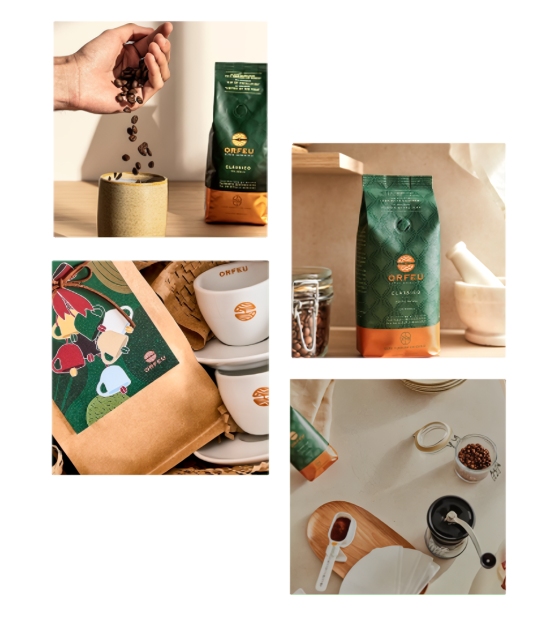
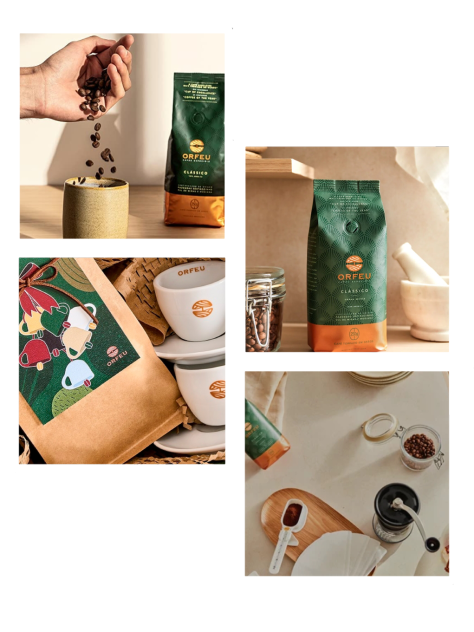
mudanças

diff --git a/src/pages/Usuario/PaginaProdutos/index.jsx b/src/pages/Usuario/PaginaProdutos/index.jsx
@@ -8,7 +8,7 @@ import { toast } from 'react-toastify';
 
 
 export default function Index(){
-    const categorias = [{categoria: 'cafeemgraos', secoes: [{marca: '3 Corações: Edição Gourmet', marcaBusca: '3 coracoes', imagemSuporte: '/assets/images/categorias/apresentacao/graos/cafe3coracoes.svg'}, {marca: 'Orfeu: 100% arábica', marcaBusca: 'orfeu', imagemSuporte: '/assets/images/categorias/apresentacao/graos/cafeOrfeu.png'}, {marca: 'Santa Mônica', marcaBusca: 'santa monica' , imagemSuporte: '/assets/images/categorias/apresentacao/graos/cafeSantaMonica.png'}]}, {categoria: 'filtros', secoes: [{marca: 'Hario V60', marcaBusca: 'hario' , imagemSuporte: ''}, {marca: 'Chemex: Bonded Filters', marcaBusca: 'chemex' , imagemSuporte: ''}, {marca: '3 corações', marcaBusca: '3 coracoes' ,  imagemSuporte: ''}]}, {categoria: 'moedores', secoes: [{marca: 'Hario', marcaBusca:'hario' , imagemSuporte: ''}, {marca: 'Tramontina ', marcaBusca: 'tramontina', imagemSuporte: ''}, {marca: 'Hamilton Beach', marcaBusca: 'hamilton', imagemSuporte: ''}]}, {categoria: 'cafeteiras', secoes: [{marca: 'Nespresso', marcaBusca: 'nespresso', imagemSuporte: ''}, {marca: 'Oster', marcaBusca: 'oster', imagemSuporte: ''}, {marca: 'DeLonghi', marcaBusca: 'delonghi', imagemSuporte: ''}]}, {categoria: 'capsulas', secoes: [{marca: 'Orfeu Cafés Especiais', marcaBusca: 'orfeu', imagemSuporte: ''}, {marca: 'Baggio Café', marcaBusca: 'baggio', imagemSuporte: ''}, {marca: `L'or Expresso`, marcaBusca: `l'or`, imagemSuporte: ''}]}, {categoria: 'cafeempo', secoes: [{marca: 'Baggio Café', marcaBusca: 'baggio', imagemSuporte: ''}, {marca: 'Starbucks', marcaBusca: 'starbucks', imagemSuporte: ''}, {marca: 'Melitta', marcaBusca: 'melitta', imagemSuporte: ''}]}, {categoria: 'acessorios', secoes: [{marca: 'Garrafas térmicas Stanley', marcaBusca: 'stanley', imagemSuporte: ''}, {marca: 'Bules Electrolux', marcaBusca: 'electrolux', imagemSuporte: ''}, {marca: 'Coadores Hario', marcaBusca: 'hario', imagemSuporte: ''}]}]
+    const categorias = [{categoria: 'cafeemgraos', secoes: [{marca: '3 Corações: Edição Gourmet', marcaBusca: '3 coracoes', imagemSuporte: '/assets/images/categorias/apresentacao/graos/cafe3coracoes.svg'}, {marca: 'Orfeu: 100% arábica', marcaBusca: 'orfeu', imagemSuporte: '/assets/images/categorias/apresentacao/graos/cafeOrfeu.png'}, {marca: 'Santa Mônica', marcaBusca: 'santa monica' , imagemSuporte: '/assets/images/categorias/apresentacao/graos/cafeSantaMonica.png'}]}, {categoria: 'filtros', secoes: [{marca: 'Hario V60', marcaBusca: 'hario' , imagemSuporte: '/assets/images/categorias/apresentacao/filtros/hario.png'}, {marca: 'Chemex: Bonded Filters', marcaBusca: 'chemex' , imagemSuporte: '/assets/images/categorias/apresentacao/filtros/chemex.png'}, {marca: '3 corações', marcaBusca: '3 coracoes' ,  imagemSuporte: '/assets/images/categorias/apresentacao/filtros/3coracoes.png'}]}, {categoria: 'moedores', secoes: [{marca: 'Hario', marcaBusca:'hario' , imagemSuporte: ''}, {marca: 'Tramontina ', marcaBusca: 'tramontina', imagemSuporte: ''}, {marca: 'Hamilton Beach', marcaBusca: 'hamilton', imagemSuporte: ''}]}, {categoria: 'cafeteiras', secoes: [{marca: 'Nespresso', marcaBusca: 'nespresso', imagemSuporte: ''}, {marca: 'Oster', marcaBusca: 'oster', imagemSuporte: ''}, {marca: 'DeLonghi', marcaBusca: 'delonghi', imagemSuporte: ''}]}, {categoria: 'capsulas', secoes: [{marca: 'Orfeu Cafés Especiais', marcaBusca: 'orfeu', imagemSuporte: ''}, {marca: 'Baggio Café', marcaBusca: 'baggio', imagemSuporte: ''}, {marca: `L'or Expresso`, marcaBusca: `l'or`, imagemSuporte: ''}]}, {categoria: 'cafeempo', secoes: [{marca: 'Baggio Café', marcaBusca: 'baggio', imagemSuporte: ''}, {marca: 'Starbucks', marcaBusca: 'starbucks', imagemSuporte: ''}, {marca: 'Melitta', marcaBusca: 'melitta', imagemSuporte: ''}]}, {categoria: 'acessorios', secoes: [{marca: 'Garrafas térmicas Stanley', marcaBusca: 'stanley', imagemSuporte: ''}, {marca: 'Bules Electrolux', marcaBusca: 'electrolux', imagemSuporte: ''}, {marca: 'Coadores Hario', marcaBusca: 'hario', imagemSuporte: ''}]}]
     const [categoriaAtual, setCategoriaAtual] = useState([{marca: '', imagemSuporte: ''}, {marca: '', imagemSuporte: ''}, {marca: '', imagemSuporte: ''}])
     const { categoria } = useParams()
     const [produtos, setProdutos] = useState([[], [], []])

diff --git a/src/pages/Admin/Estatísticas/index.jsx b/src/pages/Admin/Estatísticas/index.jsx
@@ -1,7 +1,59 @@
+import { useEffect, useState } from 'react';
 import CabecalhoAdm from '../../../components/Admin/AdmCabecalho';
 import './index.scss';
+import { toast } from 'react-toastify';
+import { buscarEstatisticas } from '../../../api/estatisticaApi';
 
 export default function Index() {
+    const [estatisticas, setEstatisticas] = useState()
+    
+
+
+    async function buscarEstatisticasClick(){
+        try{
+            const campos = ['assinaturas', 'pedidosConcluidos', 'pedidosCancelados', 'clientes']
+            let dateFim = new Date()
+            dateFim = dateFim.toISOString()
+            dateFim = dateFim.substr(0, 10)
+
+            let dateInicio = new Date()
+            dateInicio.setDate(dateInicio.getDate() - 30)
+            dateInicio = dateInicio.toISOString()
+            dateInicio = dateInicio.substr(0, 10)
+
+            let dateComparacaoFim = `${dateInicio}`
+            dateComparacaoFim = dateComparacaoFim.substring(0, 10)
+            
+            let dateComparacaoInicio = new Date()
+            dateComparacaoInicio.setDate(dateComparacaoInicio.getDate() - 60)
+            dateComparacaoInicio = dateComparacaoInicio.toISOString()
+            dateComparacaoInicio = dateComparacaoInicio.substr(0, 10)            
+
+            for(let cont = 0; cont < 1; cont++){
+                let qtdRecente = await buscarEstatisticas(dateInicio, dateFim, campos[cont])
+                let qtdAntiga = await buscarEstatisticas(dateComparacaoInicio, dateComparacaoFim, campos[cont])
+                let taxa = (qtdRecente - qtdAntiga) / (qtdAntiga / 100)  
+                console.log(qtdRecente);
+                console.log(qtdAntiga);
+                console.log(taxa);
+            }
+        }
+        catch(err){
+            if(err.response)
+                toast.error(err.response.data.erro)
+            else
+                toast.error(err.message)
+        }
+    }
+    
+    useEffect(() => {
+        buscarEstatisticasClick()
+
+        // eslint-disable-next-line
+    }, [])
+    
+    
+    
     return(
         <div id='page-adm-estatisticas'>
             <CabecalhoAdm />

diff --git a/src/pages/Admin/Assinaturas/index.jsx b/src/pages/Admin/Assinaturas/index.jsx
@@ -55,38 +55,8 @@ export default function ConsultaAssinaturas () {
                 return( */}
                   <tr >
                     <div>
-                      <td className='id desaparece5'> 1293 </td>
-                      <td className='desaparece'> Pietro Aug </td>
-                      <td className='desaparece1'> 32142-131 </td>
-                      <td className='desaparece2'> R$212,12 </td>
-                      <td className='desaparece4'> ASV23-12 </td>
-                      <td className='desaparece3' > PAGO </td>
-                    </div>
-                  </tr>
-                  <tr >
-                    <div>
-                      <td className='id desaparece5'> 1293 </td>
-                      <td className='desaparece'> Pietro Aug </td>
-                      <td className='desaparece1'> 32142-131 </td>
-                      <td className='desaparece2'> R$212,12 </td>
-                      <td className='desaparece4'> ASV23-12 </td>
-                      <td className='desaparece3' > PAGO </td>
-                    </div>
-                  </tr>
-                  <tr >
-                    <div>
-                      <td className='id desaparece5'> 1293 </td>
-                      <td className='desaparece'> Pietro Aug </td>
-                      <td className='desaparece1'> 32142-131 </td>
-                      <td className='desaparece2'> R$212,12 </td>
-                      <td className='desaparece4'> ASV23-12 </td>
-                      <td className='desaparece3' > PAGO </td>
-                    </div>
-                  </tr>
-                  <tr >
-                    <div>
-                      <td className='id desaparece5'> 1293 </td>
-                      <td className='desaparece'> Pietro Aug </td>
+                      <td className='id desaparece5'> 12 </td>
+                      <td className='desaparece'> Pietro </td>
                       <td className='desaparece1'> 32142-131 </td>
                       <td className='desaparece2'> R$212,12 </td>
                       <td className='desaparece4'> ASV23-12 </td>

diff --git a/src/pages/Admin/Assinaturas/index.scss b/src/pages/Admin/Assinaturas/index.scss
@@ -95,7 +95,7 @@
                 display: flex;
                 flex-direction: column;
                 max-height: 700px;
-                height: 400px;
+                height: 470px;
                 gap: 30px;
                 padding: 30px 0px 0px 0px;
                 .id {
@@ -121,11 +121,12 @@
                 tbody{
                     padding: 0px 20px 30px 10px;
                     display: flex;
+                    overflow: scroll;
                     flex-direction: column;
                     margin-right: 3px;
                     gap: 20px;
                     width: 99.6%;
-                    height: 650px;
+                    height: 400px;
                     overflow: scroll;
                     overflow-x: hidden;
                     tr:hover {
@@ -144,7 +145,7 @@
                         background-color: white;
                         border: 1px solid black;
                         border-radius: 10px;
-                        height: 170px;
+                        height: 85px;
                         padding: 7px 8px 7px 17px;
                         align-items: center;
                         > div {
@@ -156,7 +157,7 @@
                             align-items: center;
                         }
                         td{
-                            width: 100px;
+                            width: 130px;
                             height: 30px;
                             padding: 0px 3px;
                             border-radius: 5px;

diff --git a/src/pages/Usuario/PaginaProdutos/Combos/index.jsx b/src/pages/Usuario/PaginaProdutos/Combos/index.jsx
@@ -83,10 +83,10 @@ export default function Combos(){
                                     {combo.produtos.map((item, indexProdutos, array) => {
                                         
                                         return(
-                                            <div>
+                                            <div key={item.produto.id}>
                                                 <section>
                                                     <img  src={item.produto.imagem} alt='' />
-                                                    <p> {item.produto.produto} {item.produto.categoria === 'Café em grãos' || item.produto.categoria === 'Café em pó' ? item.produto.detalhes.peso : ''} </p>
+                                                    <p> {item.produto.produto} {item.produto.categoria === 'Café em grãos' || item.produto.categoria === 'Café em pó' ? item.produto.id : ''} </p>
                                                     <h5 className='precoMarrom'> R${item.produto.preco}</h5>
                                                 </section>
                                                 <img className={verificarClasse(indexProdutos)} style={{display: verificarAparicao(item.id, indexProdutos, array)}} src='/assets/images/icon-mais.png' alt='' />

diff --git a/src/pages/Usuario/DescricaoProduto/index.jsx b/src/pages/Usuario/DescricaoProduto/index.jsx
@@ -1,9 +1,14 @@
 import CabecalhoUsuario from '../../../components/Usuario/UsuarioCabecalho';
 import UsuarioRodape from '../../../components/Usuario/UsuarioRodape';
-import { Link } from 'react-router-dom';
+import { Link, useParams } from 'react-router-dom';
 import './index.scss';
+import { useState } from 'react';
 
 export default function DescricaoProduto () {
+    const [produto, setProduto] = useState({})
+    const {id} = useParams()
+
+    async function buscar
 
     
 return (

diff --git a/src/pages/Usuario/PaginaProdutos/index.scss b/src/pages/Usuario/PaginaProdutos/index.scss
@@ -37,7 +37,7 @@
         .faixaApresentacao2 {
             img {
                 left: 90px;
-                width: 350px;
+                width: 290px;
                 top: 0px;
             }
             > article {
@@ -61,7 +61,7 @@
                 background-color: #31231D;
             }
             img {
-                width: 350px;
+                // width: 350px;
                 top: 0px;
                 right: 90px;
             }

diff --git a/src/api/estatisticaApi.js b/src/api/estatisticaApi.js
@@ -1,0 +1,14 @@
+import { URLRota } from '../constants'
+import axios from 'axios'
+
+
+const api = axios.create({
+    baseURL: URLRota
+})
+
+
+export async function buscarEstatisticas(inicio, fim, campo){
+    const resp = await api.get(`/estatisticas?dtInicio=${inicio}&dtFim=${fim}&campo=${campo}`)
+
+    return resp.data.qtd
+}

diff --git a/src/pages/Usuario/Home/index.jsx b/src/pages/Usuario/Home/index.jsx
@@ -112,6 +112,7 @@ function Home () {
 
     useEffect(() => {
         buscarCategoriasExibicao()
+        storage('usuario-pedido', { produtos: [] })
     }, []);
 
     // useEffect(() => {
